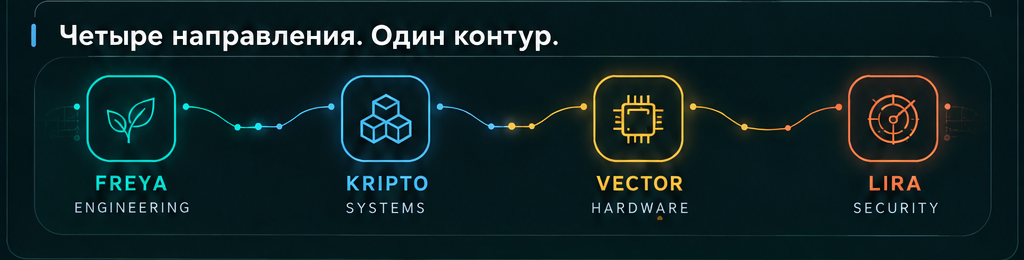
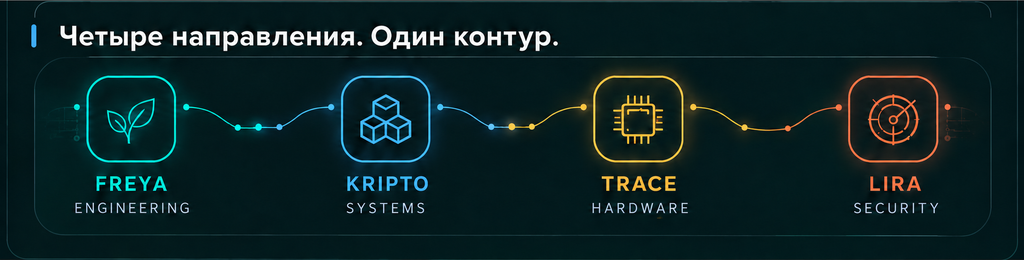
Сохранить FREEBOX-дизайн: TRACE, sockpuppet-hunter и исходники анимаций

diff --git a/scripts/render-projects.py b/scripts/render-projects.py
@@ -1,0 +1,65 @@
+from PIL import Image,ImageDraw,ImageFont,ImageFilter
+from pathlib import Path
+import math
+ROOT=Path(__file__).resolve().parents[1]
+OUT=ROOT/'assets/freebox'
+F='/usr/share/fonts/truetype/dejavu/DejaVuSans'
+def font(n,b=False):return ImageFont.truetype(F+('-Bold' if b else '')+'.ttf',n)
+specs=[('termux-agent','TERMUX AGENT','LOCAL AI / ANDROID','#1BC2A8','01'),('xnode-osint','XNODE OSINT','RESEARCH / PYTHON','#4FB0D6','02'),('vibe-chat','VIBE CHAT','TERMINAL / WEB UI','#F6B93B','03'),('netmon','NETMON','NETWORK / WINDOWS','#FF8A5C','04'),('wifi-audit','WIFI AUDIT','LOCAL PASSWORD AUDIT','#1BC2A8','05'),('lab-web','LAB / WEB','RED TEAM LAB','#4FB0D6','06')]
+for name,title,sub,color,num in specs:
+ frames=[]
+ for k in range(48):
+  im=Image.new('RGB',(520,160),'#0E1A1E');d=ImageDraw.Draw(im)
+  d.rounded_rectangle((5,8,514,151),radius=24,fill='#102126',outline='#28413F',width=2)
+  d.rounded_rectangle((17,20,502,139),radius=17,outline=color,width=1)
+  # Moving perimeter pulse, continuous around the squircle-like outline.
+  per=2*(485+119);pos=(k/48*per)
+  def point(t):
+   t%=per
+   if t<485:return (17+t,20)
+   t-=485
+   if t<119:return (502,20+t)
+   t-=119
+   if t<485:return (502-t,139)
+   return (17,139-(t-485))
+  glow=Image.new('RGB',im.size);gd=ImageDraw.Draw(glow)
+  pts=[point(pos-j) for j in range(50)]
+  gd.line(pts,fill=color,width=5)
+  glow=glow.filter(ImageFilter.GaussianBlur(5))
+  from PIL import ImageChops
+  im=ImageChops.add(im,glow);d=ImageDraw.Draw(im)
+  d.line(pts[:18],fill=color,width=3)
+  # Independent logo motion within a stationary icon tile.
+  d.rounded_rectangle((33,44,99,111),18,fill='#16272B',outline=color,width=2)
+  cx=66;cy=77
+  if name=='telegram':
+   a=math.sin(k*math.pi/24)*3
+   d.polygon([(44,cy+a),(88,cy-17+a),(76,cy+21+a),(65,cy+7+a),(58,cy+17+a),(59,cy+3+a)],outline=color,width=2)
+   d.line([(59,cy+3+a),(81,cy-12+a),(65,cy+7+a)],fill=color,width=2)
+  elif name=='site':
+   d.ellipse((45,56,87,98),outline=color,width=2);d.ellipse((57,56,75,98),outline=color,width=1)
+   d.line((45,77,87,77),fill=color,width=1)
+   dot=45+(k%24)*42/24;d.ellipse((dot-2,74,dot+2,78),fill='#EAF3F1')
+  elif name not in ['site','support']:
+   shift=int(math.sin(k*math.pi/24)*3)
+   d.line([(57+shift,65),(45+shift,77),(57+shift,89)],fill=color,width=3)
+   d.line([(75-shift,65),(87-shift,77),(75-shift,89)],fill=color,width=3)
+   d.line((71,61,62,94),fill=color,width=2)
+  else:
+   r=1+0.08*math.sin(k*math.pi/12)
+   pts=[(66+r*20*math.sin(t)**3,79-r*(16*math.cos(t)-6*math.cos(2*t)-3*math.cos(3*t)-math.cos(4*t))) for t in [i*math.pi/40 for i in range(81)]]
+   d.line(pts,fill=color,width=2)
+  d.text((121,43),title,font=font(25,True),fill='#EAF3F1')
+  d.text((122,84),sub,font=font(13),fill=color)
+  d.text((475,28),num,font=font(10),fill=color)
+  # Three trailing arrowheads: each illuminates in sequence, with a gentle drift.
+  for j in range(3):
+   active=(k//5)%3==j
+   c=color if active else '#28413F';x=425+j*18+3*math.sin(k*math.pi/24)
+   d.line([(x,65),(x+10,77),(x,89)],fill=c,width=4 if active else 2)
+  frames.append(im)
+ path=OUT/('project-'+name+'.gif')
+ frames[0].save(path,save_all=True,append_images=frames[1:],loop=0,duration=60,optimize=True)
+ with Image.open(path) as test:
+  assert test.n_frames==48 and test.info['loop']==0
+ print(path.name,path.stat().st_size)

diff --git a/scripts/render-links.py b/scripts/render-links.py
@@ -1,0 +1,65 @@
+from PIL import Image,ImageDraw,ImageFont,ImageFilter
+from pathlib import Path
+import math
+ROOT=Path(__file__).resolve().parents[1]
+OUT=ROOT/'assets/freebox'
+F='/usr/share/fonts/truetype/dejavu/DejaVuSans'
+def font(n,b=False):return ImageFont.truetype(F+('-Bold' if b else '')+'.ttf',n)
+specs=[('telegram','TELEGRAM','КАНАЛ ЛАБОРАТОРИИ','#1BC2A8','01'),('site','WEB / LAB','НАША ЛАБОРАТОРИЯ','#4FB0D6','02'),('repositories','OPEN SOURCE','ОТКРЫТЬ ПРОЕКТЫ','#F6B93B','03'),('support','SUPPORT','ПОДДЕРЖАТЬ ПРОЕКТ','#FF8A5C','04')]
+for name,title,sub,color,num in specs:
+ frames=[]
+ for k in range(48):
+  im=Image.new('RGB',(520,160),'#0E1A1E');d=ImageDraw.Draw(im)
+  d.rounded_rectangle((5,8,514,151),radius=24,fill='#102126',outline='#28413F',width=2)
+  d.rounded_rectangle((17,20,502,139),radius=17,outline=color,width=1)
+  # Moving perimeter pulse, continuous around the squircle-like outline.
+  per=2*(485+119);pos=(k/48*per)
+  def point(t):
+   t%=per
+   if t<485:return (17+t,20)
+   t-=485
+   if t<119:return (502,20+t)
+   t-=119
+   if t<485:return (502-t,139)
+   return (17,139-(t-485))
+  glow=Image.new('RGB',im.size);gd=ImageDraw.Draw(glow)
+  pts=[point(pos-j) for j in range(50)]
+  gd.line(pts,fill=color,width=5)
+  glow=glow.filter(ImageFilter.GaussianBlur(5))
+  from PIL import ImageChops
+  im=ImageChops.add(im,glow);d=ImageDraw.Draw(im)
+  d.line(pts[:18],fill=color,width=3)
+  # Independent logo motion within a stationary icon tile.
+  d.rounded_rectangle((33,44,99,111),18,fill='#16272B',outline=color,width=2)
+  cx=66;cy=77
+  if name=='telegram':
+   a=math.sin(k*math.pi/24)*3
+   d.polygon([(44,cy+a),(88,cy-17+a),(76,cy+21+a),(65,cy+7+a),(58,cy+17+a),(59,cy+3+a)],outline=color,width=2)
+   d.line([(59,cy+3+a),(81,cy-12+a),(65,cy+7+a)],fill=color,width=2)
+  elif name=='site':
+   d.ellipse((45,56,87,98),outline=color,width=2);d.ellipse((57,56,75,98),outline=color,width=1)
+   d.line((45,77,87,77),fill=color,width=1)
+   dot=45+(k%24)*42/24;d.ellipse((dot-2,74,dot+2,78),fill='#EAF3F1')
+  elif name=='repositories':
+   shift=int(math.sin(k*math.pi/24)*3)
+   d.line([(57+shift,65),(45+shift,77),(57+shift,89)],fill=color,width=3)
+   d.line([(75-shift,65),(87-shift,77),(75-shift,89)],fill=color,width=3)
+   d.line((71,61,62,94),fill=color,width=2)
+  else:
+   r=1+0.08*math.sin(k*math.pi/12)
+   pts=[(66+r*20*math.sin(t)**3,79-r*(16*math.cos(t)-6*math.cos(2*t)-3*math.cos(3*t)-math.cos(4*t))) for t in [i*math.pi/40 for i in range(81)]]
+   d.line(pts,fill=color,width=2)
+  d.text((121,43),title,font=font(25,True),fill='#EAF3F1')
+  d.text((122,84),sub,font=font(13),fill=color)
+  d.text((475,28),num,font=font(10),fill=color)
+  # Three trailing arrowheads: each illuminates in sequence, with a gentle drift.
+  for j in range(3):
+   active=(k//5)%3==j
+   c=color if active else '#28413F';x=425+j*18+3*math.sin(k*math.pi/24)
+   d.line([(x,65),(x+10,77),(x,89)],fill=c,width=4 if active else 2)
+  frames.append(im)
+ path=OUT/('link-'+name+'.gif')
+ frames[0].save(path,save_all=True,append_images=frames[1:],loop=0,duration=60,optimize=True)
+ with Image.open(path) as test:
+  assert test.n_frames==48 and test.info['loop']==0
+ print(path.name,path.stat().st_size)

diff --git a/scripts/render-sockpuppet.py b/scripts/render-sockpuppet.py
@@ -1,0 +1,65 @@
+from PIL import Image,ImageDraw,ImageFont,ImageFilter
+from pathlib import Path
+import math
+ROOT=Path(__file__).resolve().parents[1]
+OUT=ROOT/'assets/freebox'
+F='/usr/share/fonts/truetype/dejavu/DejaVuSans'
+def font(n,b=False):return ImageFont.truetype(F+('-Bold' if b else '')+'.ttf',n)
+specs=[('sockpuppet','SOCKPUPPET','ACCOUNT CORRELATION','#F6B93B','07')]
+for name,title,sub,color,num in specs:
+ frames=[]
+ for k in range(48):
+  im=Image.new('RGB',(520,160),'#0E1A1E');d=ImageDraw.Draw(im)
+  d.rounded_rectangle((5,8,514,151),radius=24,fill='#102126',outline='#28413F',width=2)
+  d.rounded_rectangle((17,20,502,139),radius=17,outline=color,width=1)
+  # Moving perimeter pulse, continuous around the squircle-like outline.
+  per=2*(485+119);pos=(k/48*per)
+  def point(t):
+   t%=per
+   if t<485:return (17+t,20)
+   t-=485
+   if t<119:return (502,20+t)
+   t-=119
+   if t<485:return (502-t,139)
+   return (17,139-(t-485))
+  glow=Image.new('RGB',im.size);gd=ImageDraw.Draw(glow)
+  pts=[point(pos-j) for j in range(50)]
+  gd.line(pts,fill=color,width=5)
+  glow=glow.filter(ImageFilter.GaussianBlur(5))
+  from PIL import ImageChops
+  im=ImageChops.add(im,glow);d=ImageDraw.Draw(im)
+  d.line(pts[:18],fill=color,width=3)
+  # Independent logo motion within a stationary icon tile.
+  d.rounded_rectangle((33,44,99,111),18,fill='#16272B',outline=color,width=2)
+  cx=66;cy=77
+  if name=='telegram':
+   a=math.sin(k*math.pi/24)*3
+   d.polygon([(44,cy+a),(88,cy-17+a),(76,cy+21+a),(65,cy+7+a),(58,cy+17+a),(59,cy+3+a)],outline=color,width=2)
+   d.line([(59,cy+3+a),(81,cy-12+a),(65,cy+7+a)],fill=color,width=2)
+  elif name=='site':
+   d.ellipse((45,56,87,98),outline=color,width=2);d.ellipse((57,56,75,98),outline=color,width=1)
+   d.line((45,77,87,77),fill=color,width=1)
+   dot=45+(k%24)*42/24;d.ellipse((dot-2,74,dot+2,78),fill='#EAF3F1')
+  elif name not in ['site','support']:
+   shift=int(math.sin(k*math.pi/24)*3)
+   d.line([(57+shift,65),(45+shift,77),(57+shift,89)],fill=color,width=3)
+   d.line([(75-shift,65),(87-shift,77),(75-shift,89)],fill=color,width=3)
+   d.line((71,61,62,94),fill=color,width=2)
+  else:
+   r=1+0.08*math.sin(k*math.pi/12)
+   pts=[(66+r*20*math.sin(t)**3,79-r*(16*math.cos(t)-6*math.cos(2*t)-3*math.cos(3*t)-math.cos(4*t))) for t in [i*math.pi/40 for i in range(81)]]
+   d.line(pts,fill=color,width=2)
+  d.text((121,43),title,font=font(25,True),fill='#EAF3F1')
+  d.text((122,84),sub,font=font(13),fill=color)
+  d.text((475,28),num,font=font(10),fill=color)
+  # Three trailing arrowheads: each illuminates in sequence, with a gentle drift.
+  for j in range(3):
+   active=(k//5)%3==j
+   c=color if active else '#28413F';x=425+j*18+3*math.sin(k*math.pi/24)
+   d.line([(x,65),(x+10,77),(x,89)],fill=c,width=4 if active else 2)
+  frames.append(im)
+ path=OUT/('project-'+name+'.gif')
+ frames[0].save(path,save_all=True,append_images=frames[1:],loop=0,duration=60,optimize=True)
+ with Image.open(path) as test:
+  assert test.n_frames==48 and test.info['loop']==0
+ print(path.name,path.stat().st_size)

diff --git a/README.md b/README.md
@@ -4,7 +4,8 @@
 <a href="https://github.com/Xnode-sh/termux-agent"><img src="assets/freebox/project-termux-agent.gif" width="49%" alt="termux-agent — открыть проект"></a><a href="https://github.com/Xnode-sh/xnode-osint"><img src="assets/freebox/project-xnode-osint.gif" width="49%" alt="xnode-osint — открыть проект"></a><br>
 <a href="https://github.com/Xnode-sh/vibe-chat"><img src="assets/freebox/project-vibe-chat.gif" width="49%" alt="vibe-chat — открыть проект"></a><a href="https://github.com/Xnode-sh/netmon"><img src="assets/freebox/project-netmon.gif" width="49%" alt="netmon — открыть проект"></a><br>
 <a href="https://github.com/Xnode-sh/wifi-audit"><img src="assets/freebox/project-wifi-audit.gif" width="49%" alt="wifi-audit — открыть проект"></a><a href="https://github.com/Xnode-sh/Xnode-sh.github.io"><img src="assets/freebox/project-lab-web.gif" width="49%" alt="Xnode-sh.github.io — открыть проект"></a><br>
-<img src="assets/freebox/crew.png" width="100%" alt="Четыре направления. Один контур. FREYA — Engineering; KRIPTO — Systems; VECTOR — Hardware; LIRA — Security."><br>
+<a href="https://github.com/Xnode-sh/sockpuppet-hunter"><img src="assets/freebox/project-sockpuppet.gif" width="49%" alt="sockpuppet-hunter — корреляция публичных профилей, открыть проект"></a><br>
+<img src="assets/freebox/crew.png" width="100%" alt="Четыре направления. Один контур. FREYA — Engineering; KRIPTO — Systems; TRACE — Hardware; LIRA — Security."><br>
 </p>
 
 <p align="center">

diff --git a/docs/ASSETS.md b/docs/ASSETS.md
@@ -1,0 +1,19 @@
+# FREEBOX — visual assets
+
+Approved accents: teal `#1BC2A8`, blue `#4FB0D6`, gold `#F6B93B`, coral `#FF8A5C`. Background `#0E1A1E`, surface `#16272B`, border `#28413F`, text `#EAF3F1`.
+
+Crew: FREYA / ENGINEERING · KRIPTO / SYSTEMS · TRACE / HARDWARE · LIRA / SECURITY. Preserve the approved illustrated crew panel; change labels locally rather than redesigning it.
+
+`assets/freebox/social-preview.png`: 1280×640 cover, ready for repository Settings → Social preview. File presence alone does not configure the GitHub social preview setting.
+
+## Regenerate animated links
+
+Use Python with Pillow and DejaVu Sans fonts installed. Generators are under `scripts/`:
+
+- `render-links.py` — four navigation links.
+- `render-projects.py` — six original project links.
+- `render-sockpuppet.py` — seventh project link using exactly the same renderer.
+
+Each card is 520×160, 48 frames × 60 ms, infinite loop. Check every exported GIF is nonempty, decodes, and frames differ before publishing. Keep each asset below 5 MiB. Do not publish intermediary frames.
+
+README assets and links must be checked with `python3 scripts/check-assets.py`. Illustration assets were generated with ImageGen; code-native link animations are rendered with Pillow.

diff --git a/docs/PROFILE.md b/docs/PROFILE.md
@@ -20,7 +20,7 @@
 | --- | --- |
 | FREYA | Engineering & Coordination — Qtile/polybar, автоматизация, companion-UI, документация |
 | KRIPTO | Systems & Linux — загрузка, сеть, питание, systemd, стабильность станции |
-| VECTOR | Hardware & Firmware — платы, микроконтроллеры, прошивки, аппаратная диагностика |
+| TRACE | Hardware & Firmware — платы, микроконтроллеры, прошивки, аппаратная диагностика |
 | LIRA (VEGA) | Security — авторизованный аудит, OSINT, red-team tooling |
 
 **NODE** — mascot & visual status daemon: отображает состояние лаборатории.
